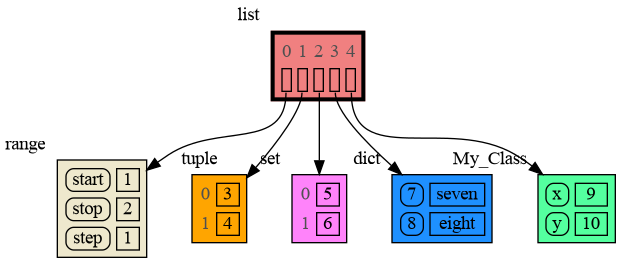
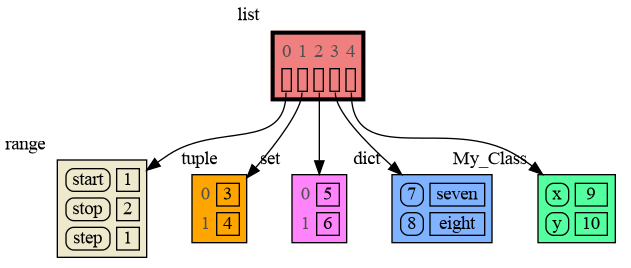
update

Changed region(s): [[0.6022, 0.6269, 0.7829, 0.9254]]

diff --git a/memory_graph/config_default.py b/memory_graph/config_default.py
@@ -82,7 +82,7 @@ config.type_to_color = {
     Node_Key_Value : "seagreen1", # for classes
     call_stack : 'khaki',
     type: "seagreen3",            # where class variables are stored
-    dict : "dodgerblue1",
+    dict : "#80b3ff",
     types.MappingProxyType : "dodgerblue2", # not used
     range : "cornsilk2",
 }
